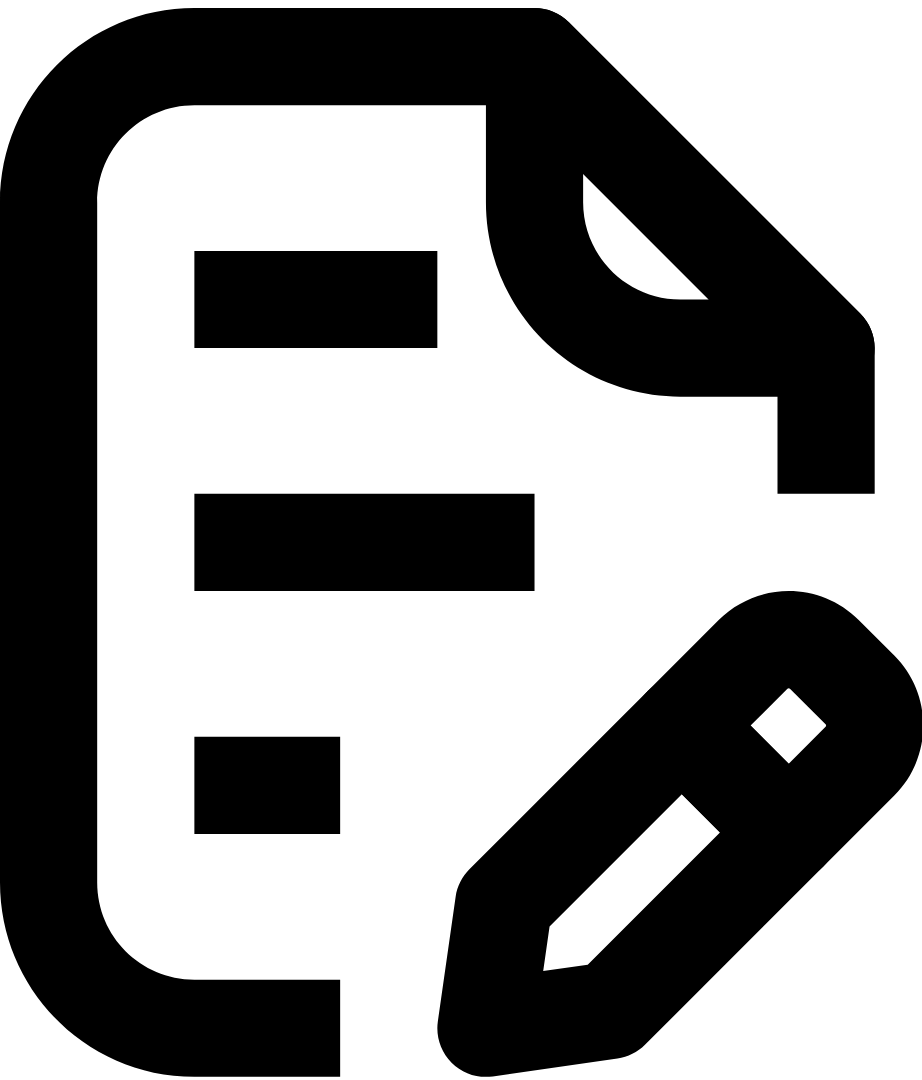
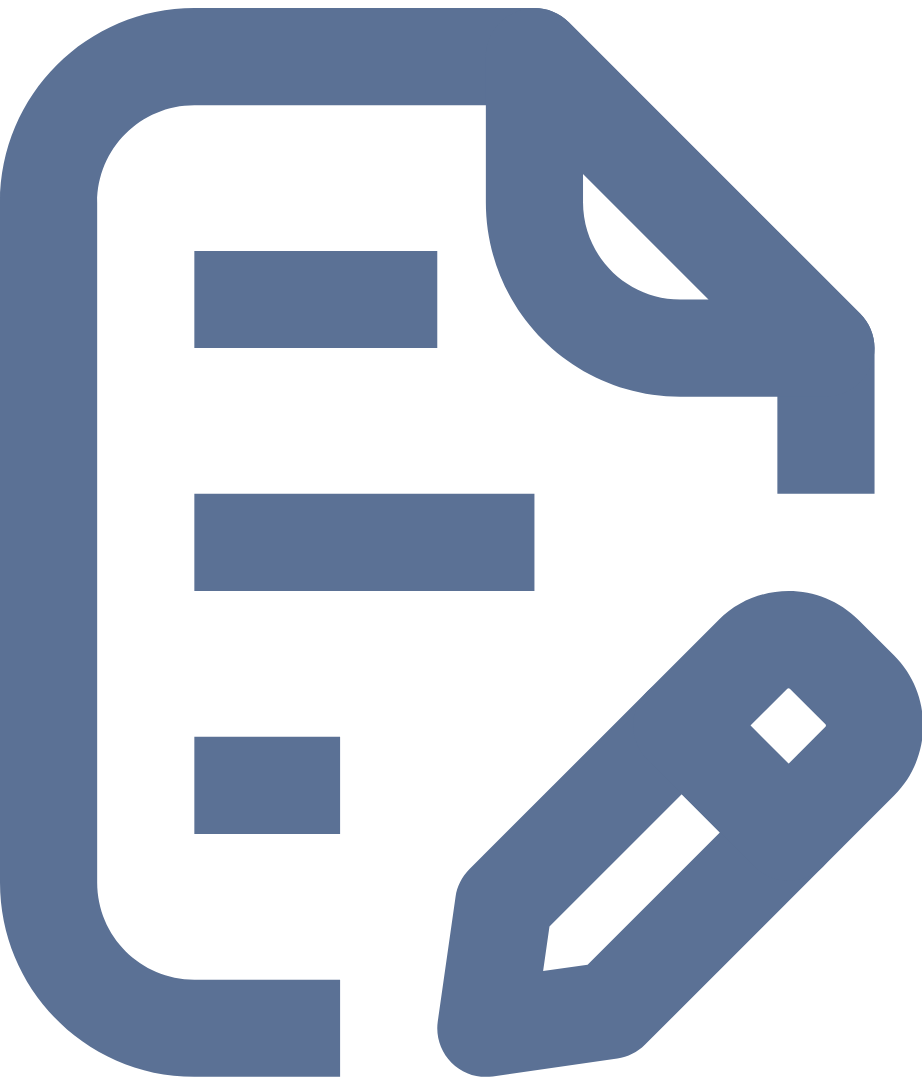
.

diff --git a/css/tela_contratos.css b/css/tela_contratos.css
@@ -37,21 +37,21 @@ section {
 }
 
 .compra {
-    border: 0.1rem solid black;
     border-radius: 1.5rem;
     height: 8rem;
     width: 85%;
     margin: 0.5rem;
     font-size: 1.5rem;
     padding: 0.5rem;
+    background-color: rgb(91, 113, 149);
 }
 
 .icone-compra {
     position: absolute;
-    top: 2%;
+    top: 5%;
     right: 2%;
-    height: 3.5rem;
-    width: 3.5rem;
+    height: 2rem;
+    width: 2rem;
 }
 
 footer {
@@ -66,6 +66,11 @@ footer {
     padding: 1rem;
     height: 3rem;
     background-color: white;
+}
+
+a{
+    text-decoration: none;
+    color: white;
 }
 
 .info-compra {
